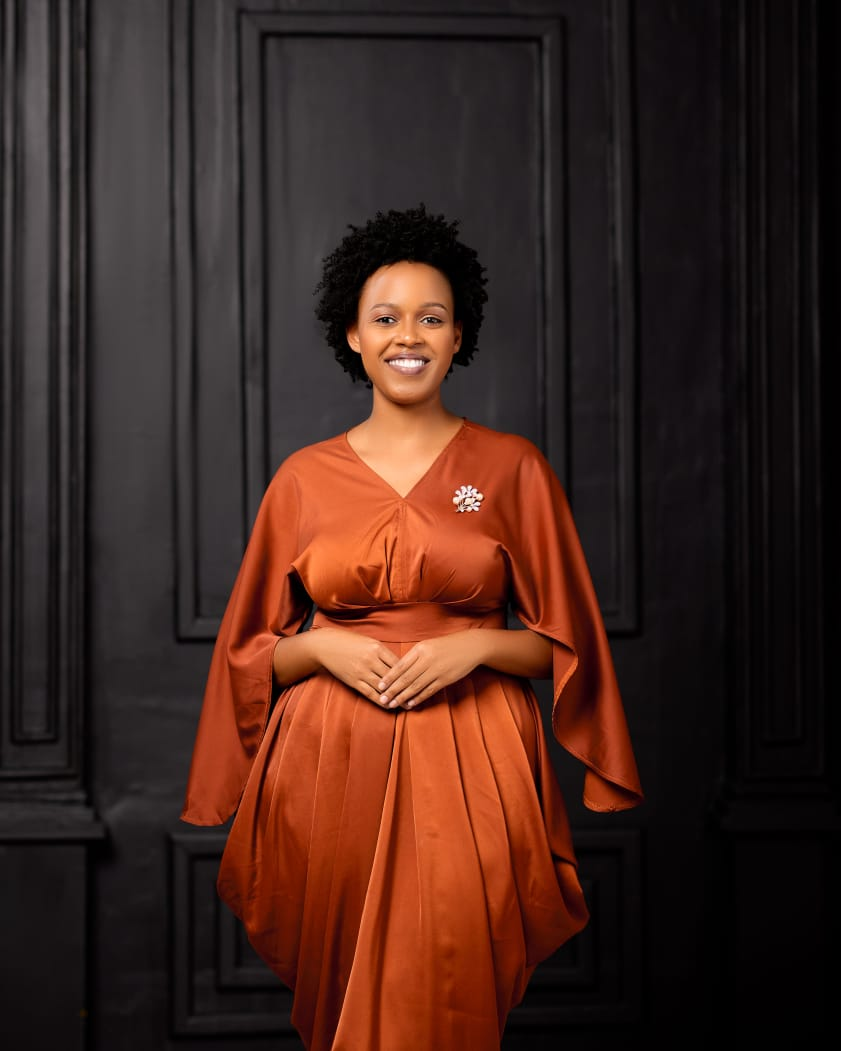
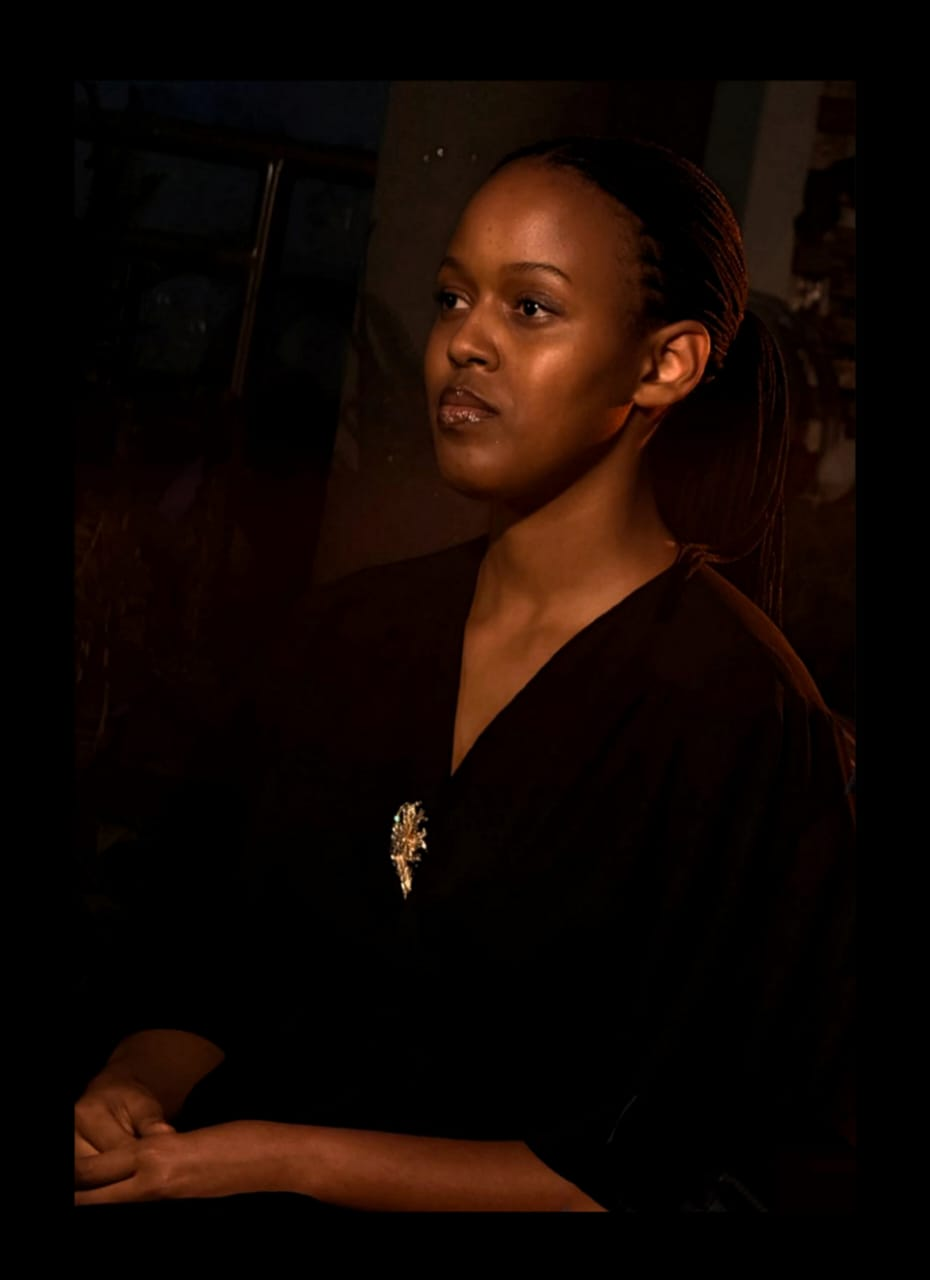
Resized the image

diff --git a/style.css b/style.css
@@ -70,7 +70,42 @@ nav{
 .social-links{ display: flex; gap: 20px; }
 .social-links a{ font-size: 14px; color: var(--ink-dim); }
 .social-links a:hover{ color: var(--ink); }
- 
+
+/* ---- ABOUT ---- */
+.about-content {
+  display: flex;
+  gap: 32px;
+  align-items: flex-start;
+}
+
+.about-photo {
+  width: 160px;
+  height: 180px;
+  object-fit: cover;
+  border-radius: 8px;
+  flex-shrink: 0;
+}
+
+.about-text {
+  display: flex;
+  flex-direction: column;
+  gap: 16px;
+}
+
+.about-text p {
+  color: var(--ink-dim);
+}
+
+@media (max-width: 640px) {
+  .about-content {
+    flex-direction: column;
+  }
+
+  .about-photo {
+    width: 120px;
+    height: 135px;
+  }
+}
 /* ---- SECTIONS ---- */
 section{
   padding: 60px 40px;
